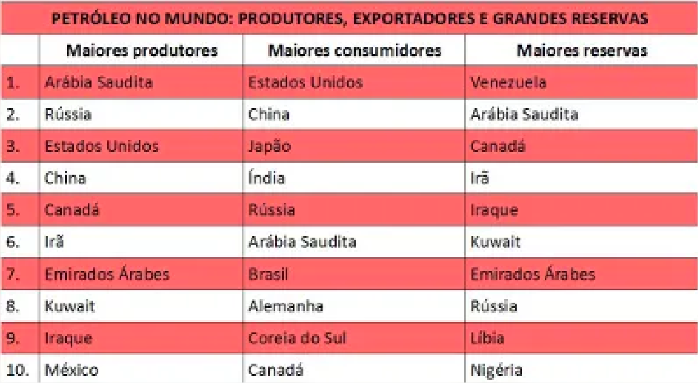
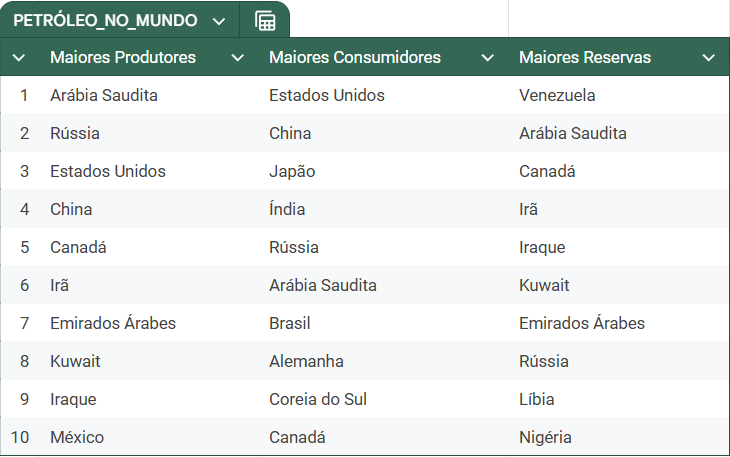
alteração imagens

diff --git a/pages/Modelo - Estudo.py b/pages/Modelo - Estudo.py
@@ -27,7 +27,7 @@ st.markdown('<p style="text-align: justify;"><span style="font-weight: bold">Res
 st.markdown('<p style="text-align: justify;">Esses fatores combinados geraram um desequilíbrio entre oferta e demanda, pressionando os preços para baixo ao longo desse período. Conforme os acontecimentos econômicos citados, é possível analisar que isso é um fator que impacta o aumento e a queda do valor do dólar.</p>', unsafe_allow_html = True)
 
 #Adiciona Imagem na pagina
-image = Image.open('images/petroleo_mundo.jpg')
+image = Image.open('images/petroleo_mundo.png')
 st.image(image, caption='Petroleo no Mundo', width = 600)
 
 
